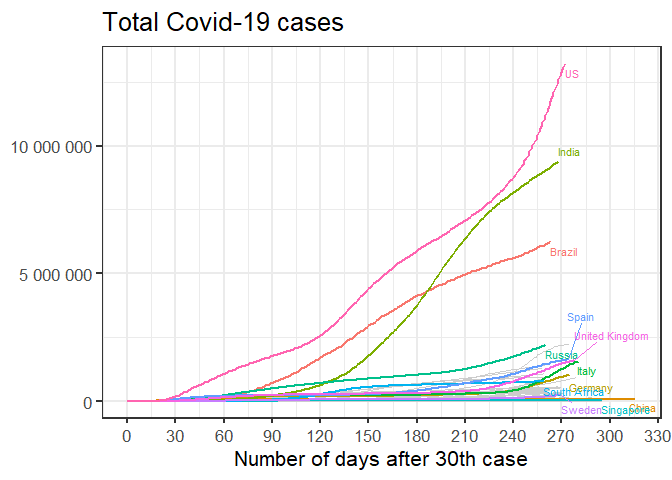
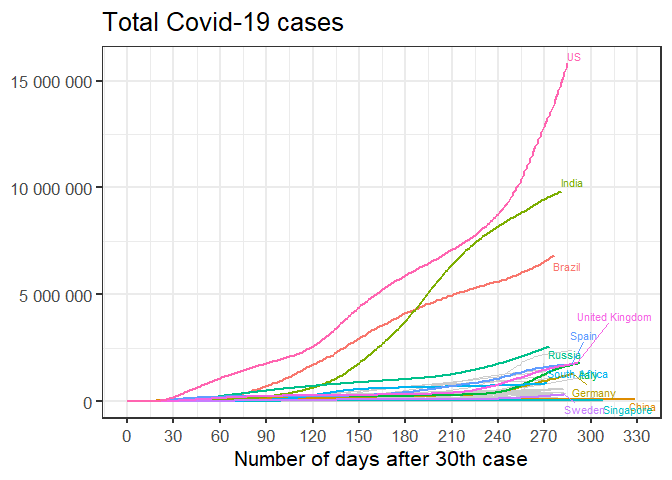
Refresh

diff --git a/README.md b/README.md
@@ -1,8 +1,7 @@
 
 <!-- README.md is generated from README.Rmd. Please edit that file -->
 
-covid-19
-========
+# covid-19
 
 <!-- badges: start -->
 <!-- badges: end -->
@@ -13,32 +12,30 @@ disease](https://en.wikipedia.org/wiki/Coronavirus_disease_2019).
 Many others have done excellent analysis, and my attempts are
 specifically trying to add flavour to the statistics in South Africa.
 
-Data source
------------
+## Data source
 
 The data source is [a repository maintained by Johns Hopkins
 University](https://github.com/CSSEGISandData/COVID-19). The data is
 updated once per day.
 
-Last updated at 2020-11-29 18:03:47
+Last updated at 2020-12-12 07:57:49
 
-Total cases
------------
+## Total cases
 
     #> # A tibble: 10 x 5
     #> # Groups:   country [1]
     #>    country      date         lat  long  cases
     #>    <chr>        <date>     <dbl> <dbl>  <dbl>
-    #>  1 South Africa 2020-11-19 -30.6  22.9 759658
-    #>  2 South Africa 2020-11-20 -30.6  22.9 762763
-    #>  3 South Africa 2020-11-21 -30.6  22.9 765409
-    #>  4 South Africa 2020-11-22 -30.6  22.9 767679
-    #>  5 South Africa 2020-11-23 -30.6  22.9 769759
-    #>  6 South Africa 2020-11-24 -30.6  22.9 772252
-    #>  7 South Africa 2020-11-25 -30.6  22.9 775502
-    #>  8 South Africa 2020-11-26 -30.6  22.9 778571
-    #>  9 South Africa 2020-11-27 -30.6  22.9 781941
-    #> 10 South Africa 2020-11-28 -30.6  22.9 785139
+    #>  1 South Africa 2020-12-02 -30.6  22.9 796472
+    #>  2 South Africa 2020-12-03 -30.6  22.9 800872
+    #>  3 South Africa 2020-12-04 -30.6  22.9 805804
+    #>  4 South Africa 2020-12-05 -30.6  22.9 810449
+    #>  5 South Africa 2020-12-06 -30.6  22.9 814565
+    #>  6 South Africa 2020-12-07 -30.6  22.9 817878
+    #>  7 South Africa 2020-12-08 -30.6  22.9 821889
+    #>  8 South Africa 2020-12-09 -30.6  22.9 828598
+    #>  9 South Africa 2020-12-10 -30.6  22.9 836764
+    #> 10 South Africa 2020-12-11 -30.6  22.9 845083
 
 ### Linear scale
 
@@ -56,35 +53,32 @@ indicates exponential growth.
 
 ![](README_files/figure-gfm/unnamed-chunk-4-1.png)<!-- -->
 
-New cases
----------
+## New cases
 
 ![](README_files/figure-gfm/new-cases-1.png)<!-- -->
 
 ![](README_files/figure-gfm/new-cases-plot-1.png)<!-- -->
 
-Regional distribution of Covid-19 cases
----------------------------------------
+## Regional distribution of Covid-19 cases
 
 ![](README_files/figure-gfm/unnamed-chunk-5-1.png)<!-- -->
 
-Total number of deaths
-----------------------
+## Total number of deaths
 
     #> # A tibble: 10 x 3
     #> # Groups:   country [1]
     #>    country      date       deaths
     #>    <chr>        <date>      <dbl>
-    #>  1 South Africa 2020-11-19  20671
-    #>  2 South Africa 2020-11-20  20759
-    #>  3 South Africa 2020-11-21  20845
-    #>  4 South Africa 2020-11-22  20903
-    #>  5 South Africa 2020-11-23  20968
-    #>  6 South Africa 2020-11-24  21083
-    #>  7 South Africa 2020-11-25  21201
-    #>  8 South Africa 2020-11-26  21289
-    #>  9 South Africa 2020-11-27  21378
-    #> 10 South Africa 2020-11-28  21439
+    #>  1 South Africa 2020-12-02  21709
+    #>  2 South Africa 2020-12-03  21803
+    #>  3 South Africa 2020-12-04  21963
+    #>  4 South Africa 2020-12-05  22067
+    #>  5 South Africa 2020-12-06  22206
+    #>  6 South Africa 2020-12-07  22249
+    #>  7 South Africa 2020-12-08  22432
+    #>  8 South Africa 2020-12-09  22574
+    #>  9 South Africa 2020-12-10  22747
+    #> 10 South Africa 2020-12-11  22952
 
 ### Linear scale
 
@@ -94,12 +88,10 @@ Total number of deaths
 
 ![](README_files/figure-gfm/unnamed-chunk-11-1.png)<!-- -->
 
-New deaths
-----------
+## New deaths
 
 ![](README_files/figure-gfm/unnamed-chunk-12-1.png)<!-- -->
 
-Regional distribution of Covid-19 deaths
-----------------------------------------
+## Regional distribution of Covid-19 deaths
 
 ![](README_files/figure-gfm/unnamed-chunk-13-1.png)<!-- -->
